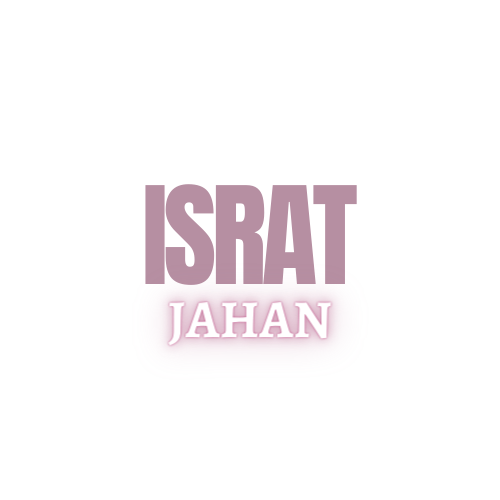
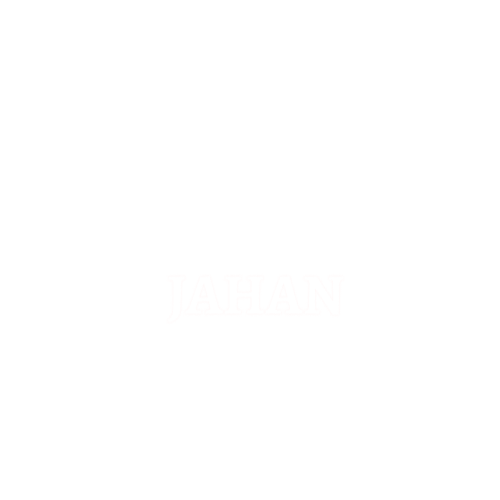
gradient

Changed region(s): [[0.27, 0.36, 0.72, 0.72]]

diff --git a/components/Banner.js b/components/Banner.js
@@ -1,6 +1,6 @@
 import Image from "next/image";
 import Link from "next/link";
-import myImage from "../assets/images/undraw_software_engineer_re_tnjc.svg";
+import myImage from "../assets/images/undraw_software_engineer_re 1.svg";
 import {BsFacebook, BsLinkedin, BsGithub} from "react-icons/bs";
 import {motion} from "framer-motion";
 
@@ -23,12 +23,12 @@ const Banner = () => {
           duration: 1,
           delay: 0.4,
         }}
-        className="flex flex-col justify-center md:p-6 rounded-sm lg:max-w-md xl:max-w-lg lg:text-left mt-8 lg:mt-0"
+        className="flex flex-col justify-center md:p-6 rounded-sm lg:max-w-md xl:max-w-lg lg:text-left mt-8 lg:mt-0 lg:w-1/2"
       >
         <div className="text-title font-mono">
           <span className="text-xl">👋</span> Hi, my name is
         </div>
-        <h1 className="text-5xl font-bold leading-none sm:text-6xl text-title">Israt Jahan</h1>
+        <h1 className="text-5xl font-bold leading-none sm:text-6xl text-gradient">Israt Jahan</h1>
         <div className="mt-6 mb-2 text-lg text-small_text flex justify-center ">
           Particularly I’m interested in learning and staying <br className="hidden lg:flex" /> current about programming and technological advancements. Also, I enjoy creating things
           <br className="hidden lg:flex" /> that live on the internet.
@@ -52,8 +52,9 @@ const Banner = () => {
             <BsGithub className="w-8 mr-3 " />
           </Link>
         </div>
-        <div className="items-center flex-shrink-0 lg:flex">
-          <button className="px-4 py-2 rounded border-2 border-primary text-primary font-mono hover:bg-hover_color">Explore My Projects</button>
+        <div className="items-center flex-shrink-0 flex font-mono">
+          <button className="px-4 py-2 rounded border-2 text-small_text  hover:bg-hover_color border-gradient">View Projects</button>
+          <button className="px-3 py-2 ml-3 rounded border-2 border-gradient2 text-small_text font-medium  hover:bg-hover_color">Resume</button>
         </div>
       </motion.div>
       <motion.div
@@ -64,9 +65,9 @@ const Banner = () => {
           duration: 1,
           delay: 0.5,
         }}
-        className="flex items-center justify-center md:p-6 h-72 sm:h-80 lg:h-96 xl:h-112 2xl:h-128 sm:mb-6 lg:mb-0"
+        className="flex items-center justify-center md:p-6 h-72 sm:h-80 lg:h-96 xl:h-112 2xl:h-128 sm:mb-6 lg:mb-0 lg:w-1/2"
       >
-        <Image width={400} src={myImage} alt="" className="object-contain sm:w-4/5 mt-8" />
+        <Image width={400} src={myImage} alt="" className="object-contain sm:w-11/12 mt-8" />
       </motion.div>
     </motion.div>
   );

diff --git a/components/Navigation.js b/components/Navigation.js
@@ -1,5 +1,5 @@
 import Image from "next/image";
-import logo from "../assets/images/Israt2.png";
+import logo from "../assets/images/Israt.png";
 import {motion} from "framer-motion";
 import Link from "next/link";
 import {AiOutlineMenu} from "react-icons/ai";
@@ -30,7 +30,7 @@ const Navigation = () => {
   };
   const [open, setOpen] = useState(false);
   return (
-    <header className=" p-2 dark:text-gray-100 text-title bg-white/5 backdrop-blur-lg sticky top-0 z-50 font-mono">
+    <header className="md:mx-8 md:rounded-b md:rounded-r p-2 text-title bg-white/10 backdrop-blur-xl sticky top-0 z-50 font-mono">
       <div className="lg:container flex justify-between h-12 ">
         <motion.div
           initial={{opacity: 0, scale: 0}}
@@ -82,14 +82,7 @@ const Navigation = () => {
           </motion.li>
         </motion.ul>
         <div className="flex justify-end items-center lg:hidden ml-auto mr-4">
-          <AiOutlineMenu className="text-xl font-bold text-primary cursor-pointer" onClick={() => setOpen(true)} />
-        </div>
-        <div className="flex items-center">
-          <div className="items-center flex-shrink-0 hidden lg:flex lg:ml-3">
-            <motion.button variants={nav} className="px-3 py-1 rounded border-2 border-primary text-primary font-medium  hover:bg-hover_color">
-              Resume
-            </motion.button>
-          </div>
+          <AiOutlineMenu className="text-xl font-bold text-white cursor-pointer" onClick={() => setOpen(true)} />
         </div>
       </div>
       {/* ///mobile menu  */}
@@ -119,13 +112,6 @@ const Navigation = () => {
             <Link href="#contact" className="flex items-center hover:bg-gray-500/30 py-1 rounded">
               Contact
             </Link>
-          </li>
-          <li className="flex items-center">
-            <div className="items-center flex-shrink-0  flex my-3">
-              <button variants={nav} className="px-3 py-1 rounded border-2 border-primary text-primary font-medium hover:bg-hover_color">
-                Resume
-              </button>
-            </div>
           </li>
         </ul>
         <div className="mt-4">

diff --git a/styles/globals.css b/styles/globals.css
@@ -7,7 +7,7 @@ body {
   padding: 0;
   margin: 0;
   font-family: -apple-system, BlinkMacSystemFont, Segoe UI, Roboto, Oxygen, Ubuntu, Cantarell, Fira Sans, Droid Sans, Helvetica Neue, sans-serif;
-  background-color: #0a192f;
+  background-color: #10101a;
 }
 /* rgb(17, 34, 64) */
 /* rgb(90, 138, 62) */
@@ -32,15 +32,35 @@ a {
   border: 1px solid rgba(215, 209, 255, 0.208);
   background-color: hsla(0, 0%, 100%, 0.1);
 }
+.banner {
+  background-image: url("../assets/images/1567665.png");
+  background-position: right center;
+  background-repeat: no-repeat;
+  background-size: cover;
+}
+.text-gradient {
+  background: #ddffc9;
+  background: linear-gradient(to right, #ddffc9 0%, #503d97 100%);
+  -webkit-background-clip: text;
+  -webkit-text-fill-color: transparent;
+}
+.border-gradient {
+  border-image-slice: 1;
+  border-image-source: linear-gradient(to left, #9796f0, #1e5155);
+}
+.border-gradient2 {
+  border-image-slice: 1;
+  border-image-source: linear-gradient(to left, #acb6e5, #86fde8);
+}
 @media (prefers-color-scheme: dark) {
-  html {
-    color-scheme: dark;
-  }
-  body {
+  /* html {
+    /* color-scheme: dark; */
+  /* } */
+  */ body {
     color: white;
     background-attachment: fixed;
     background-size: 100% 100%;
-    background-color: hsla(240, 42%, 17%, 1);
+    /* background-color: hsla(240, 42%, 17%, 1); */
     background-image: radial-gradient(at 97% 2%, hsla(275, 21%, 34%, 1) 0px, transparent 50%), radial-gradient(at 80% 100%, hsla(284, 51%, 21%, 1) 0px, transparent 50%), radial-gradient(at 1% 95%, hsla(258, 14%, 32%, 1) 0px, transparent 50%);
   }
 }

diff --git a/pages/_app.js b/pages/_app.js
@@ -1,17 +1,17 @@
 import "../styles/globals.css";
-import {Merriweather} from "next/font/google";
+import {Merriweather, Nunito} from "next/font/google";
 import Layout from "../components/Layout";
-const merri = Merriweather({
+const nunito = Nunito({
   subsets: ["latin"],
-  variable: "--font-merri",
+  variable: "--font-nunito",
   style: ["normal", "italic"],
-  weight: ["300", "400", "700", "900"],
+  weight: ["300", "400", "500", "700", "900"],
 });
 
 function MyApp({Component, pageProps}) {
   return (
     <Layout>
-      <main className={`${merri.variable} font-sans`}>
+      <main className={`${nunito.variable} font-sans`}>
         <Component {...pageProps} />
       </main>
     </Layout>

diff --git a/tailwind.config.js b/tailwind.config.js
@@ -15,7 +15,7 @@ module.exports = {
         hover_color: "var(--hover-color)",
       },
       fontFamily: {
-        merri: ["var(--font-merri)", ...fontFamily.sans],
+        nunito: ["var(--font-nunito)", ...fontFamily.sans],
       },
       screens: {
         xs: "320px",

diff --git a/pages/index.js b/pages/index.js
@@ -13,7 +13,7 @@ import Projects from "../components/Projects";
 
 export default function Home() {
   return (
-    <div className="">
+    <div className="font-nunito">
       <div className="px-4">
         <Banner />
         <About />
